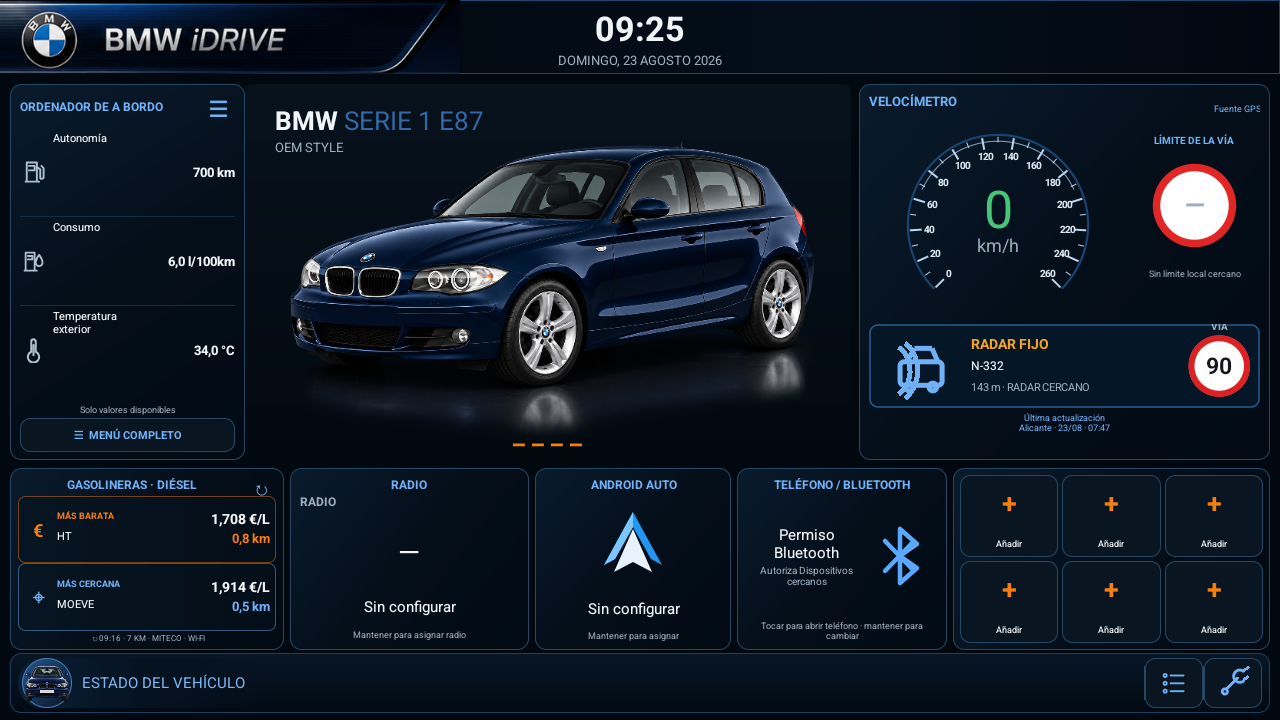
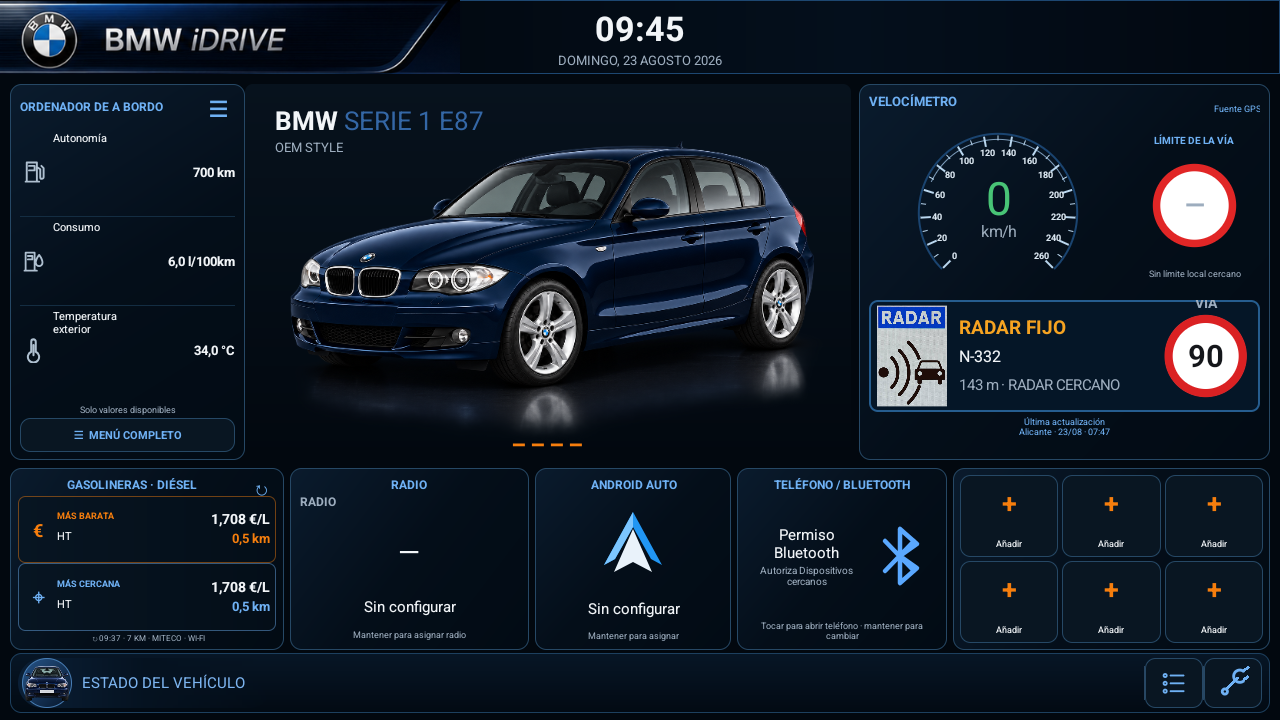
fix: use supplied Spanish radar sign

diff --git a/app/src/main/java/com/ug/e87idrive/MainActivity.java b/app/src/main/java/com/ug/e87idrive/MainActivity.java
@@ -631,11 +631,11 @@ public class MainActivity extends Activity {
         content.addView(limitColumn, lp(0, -1, .68f));
         // Keep the dial and road sign in the upper row. A radar notice needs a full-width
         // row below them; the former narrow column made its distance and approach state unreadable.
-        box.addView(content, lp(-1, dp(198)));
+        box.addView(content, lp(-1, dp(174)));
         radarNoticeView = new RadarNoticeView(this, TEXT, BLUE, MUTED);
         radarNoticeView.setContentDescription("Aviso local de radar fijo o de tramo");
         radarNoticeView.setVisibility(View.GONE);
-        box.addView(radarNoticeView, lp(-1, dp(84)));
+        box.addView(radarNoticeView, lp(-1, dp(112)));
         speedLimitUpdateInfo = txt("Base local incluida", 9, MUTED, false);
         speedLimitUpdateInfo.setGravity(Gravity.CENTER);
         speedLimitUpdateInfo.setMaxLines(2);
@@ -2662,6 +2662,7 @@ public class MainActivity extends Activity {
         private final Paint paint = new Paint(Paint.ANTI_ALIAS_FLAG);
         private final RectF rect = new RectF();
         private final int foreground, blue, muted;
+        private final Bitmap officialRadarSign;
         private RadarRepository.Alert alert;
         private Integer roadLimit;
 
@@ -2670,6 +2671,7 @@ public class MainActivity extends Activity {
             this.foreground = foreground;
             this.blue = blue;
             this.muted = muted;
+            this.officialRadarSign = BitmapFactory.decodeResource(getResources(), R.drawable.radar_sign_es);
         }
 
         void setAlert(RadarRepository.Alert alert, Integer roadLimit) {
@@ -2682,7 +2684,6 @@ public class MainActivity extends Activity {
             super.onDraw(canvas);
             if (alert == null) return;
             float w = getWidth(), h = getHeight();
-            float s = Math.min(h, w * .28f);
             rect.set(1f, 1f, w - 1f, h - 1f);
             paint.setStyle(Paint.Style.FILL);
             paint.setColor(Color.rgb(5, 22, 39));
@@ -2692,49 +2693,16 @@ public class MainActivity extends Activity {
             paint.setColor(Color.rgb(38, 93, 143));
             canvas.drawRoundRect(rect, dp(8), dp(8), paint);
 
-            // A separated radar/transmitter and front-car silhouette: do not overlap the
-            // waves with wheels or body, as it becomes illegible at the unit's 720p density.
-            float iconY = h * .55f;
-            paint.setStyle(Paint.Style.STROKE);
-            paint.setStrokeWidth(Math.max(1.5f, s * .046f));
-            paint.setStrokeCap(Paint.Cap.ROUND);
-            paint.setColor(blue);
-            float dotX = s * .13f;
-            paint.setStyle(Paint.Style.FILL);
-            canvas.drawCircle(dotX, iconY, s * .060f, paint);
-            paint.setStyle(Paint.Style.STROKE);
-            RectF wave = new RectF(s * .20f, iconY - s * .16f, s * .46f, iconY + s * .16f);
-            canvas.drawArc(wave, -66, 132, false, paint);
-            wave.inset(-s * .075f, -s * .075f);
-            canvas.drawArc(wave, -62, 124, false, paint);
-            wave.inset(-s * .075f, -s * .075f);
-            canvas.drawArc(wave, -58, 116, false, paint);
+            // Use the supplied Spanish radar road-sign image verbatim. Scaling preserves
+            // the bitmap's proportions; no custom redraw or third-party icon is involved.
+            float signHeight = Math.min(h * .90f, w * .28f / ((float) officialRadarSign.getWidth() / officialRadarSign.getHeight()));
+            float signWidth = signHeight * officialRadarSign.getWidth() / officialRadarSign.getHeight();
+            RectF signBounds = new RectF(dp(8), (h - signHeight) / 2f, dp(8) + signWidth,
+                    (h + signHeight) / 2f);
+            paint.setFilterBitmap(true);
+            canvas.drawBitmap(officialRadarSign, null, signBounds, paint);
 
-            float carLeft = s * .59f, carRight = s * 1.09f;
-            float carTop = iconY - s * .15f, carBottom = iconY + s * .22f;
-            paint.setStyle(Paint.Style.FILL);
-            paint.setColor(blue);
-            RectF car = new RectF(carLeft, carTop, carRight, carBottom);
-            canvas.drawRoundRect(car, s * .055f, s * .055f, paint);
-            Path roof = new Path();
-            roof.moveTo(carLeft + s * .10f, carTop);
-            roof.lineTo(carLeft + s * .18f, iconY - s * .32f);
-            roof.lineTo(carRight - s * .18f, iconY - s * .32f);
-            roof.lineTo(carRight - s * .10f, carTop);
-            roof.close();
-            canvas.drawPath(roof, paint);
-            paint.setStyle(Paint.Style.FILL);
-            paint.setColor(Color.rgb(5, 22, 39));
-            canvas.drawRoundRect(new RectF(carLeft + s * .14f, iconY - s * .26f,
-                    carRight - s * .14f, carTop + s * .02f), s * .025f, s * .025f, paint);
-            canvas.drawCircle(carLeft + s * .13f, carBottom, s * .073f, paint);
-            canvas.drawCircle(carRight - s * .13f, carBottom, s * .073f, paint);
-            paint.setColor(foreground);
-            canvas.drawCircle(carLeft + s * .11f, iconY + s * .035f, s * .038f, paint);
-            canvas.drawCircle(carRight - s * .11f, iconY + s * .035f, s * .038f, paint);
-            paint.setStrokeCap(Paint.Cap.BUTT);
-
-            float textLeft = s * 1.22f;
+            float textLeft = signBounds.right + dp(12);
             paint.setStyle(Paint.Style.FILL);
             paint.setTypeface(Typeface.create(Typeface.DEFAULT, Typeface.BOLD));
             paint.setTextAlign(Paint.Align.LEFT);
@@ -2752,24 +2720,24 @@ public class MainActivity extends Activity {
             canvas.drawText(formatDistance(alert.distanceMeters) + " · " + direction, textLeft, h * .80f, paint);
 
             float sign = Math.min(h * .77f, w * .24f);
-            float cx = w - sign * .63f, cy = h * .50f;
+            float cx = w - sign * .63f, signCy = h * .50f;
             paint.setStyle(Paint.Style.FILL);
             paint.setColor(Color.WHITE);
-            canvas.drawCircle(cx, cy, sign * .47f, paint);
+            canvas.drawCircle(cx, signCy, sign * .47f, paint);
             paint.setStyle(Paint.Style.STROKE);
             paint.setStrokeWidth(Math.max(2.5f, sign * .095f));
             paint.setColor(Color.rgb(218, 33, 35));
-            canvas.drawCircle(cx, cy, sign * .43f, paint);
+            canvas.drawCircle(cx, signCy, sign * .43f, paint);
             paint.setStyle(Paint.Style.FILL);
             paint.setTextAlign(Paint.Align.CENTER);
             paint.setTypeface(Typeface.create(Typeface.DEFAULT, Typeface.BOLD));
             paint.setTextSize(sign * .16f);
             paint.setColor(muted);
-            canvas.drawText("VÍA", cx, cy - sign * .56f, paint);
+            canvas.drawText("VÍA", cx, signCy - sign * .56f, paint);
             paint.setTextSize(sign * (roadLimit == null ? .36f : roadLimit >= 100 ? .31f : .36f));
             paint.setColor(roadLimit == null ? Color.rgb(80, 88, 96) : Color.rgb(20, 22, 26));
             canvas.drawText(roadLimit == null ? "—" : String.valueOf(roadLimit), cx,
-                    cy - (paint.ascent() + paint.descent()) / 2f, paint);
+                    signCy - (paint.ascent() + paint.descent()) / 2f, paint);
             paint.setTypeface(Typeface.DEFAULT);
         }
 

diff --git a/CHANGELOG.md b/CHANGELOG.md
@@ -4,9 +4,9 @@
 
 - El aviso de radar abandona la columna estrecha del límite: la esfera queda arriba y el radar
   ocupa una franja completa debajo, con vía, distancia, acercamiento y señal `VÍA` legibles.
-- El pictograma se redibuja como coche frontal separado, punto y tres ondas de radar, sin el
-  solapamiento anterior entre ruedas y señal. Se renovaron las capturas de portada, herramientas
-  y actualizaciones de GitHub; la portada identifica explícitamente sus datos como simulación.
+- El aviso utiliza directamente el pictograma de señal de radar proporcionado para el proyecto,
+  escalado sin deformar y con una franja más alta para mantener nítidos la cabecera, las ondas y
+  el coche. Se renovó la captura de portada; identifica explícitamente sus datos como simulación.
 
 - La APK incluye el inventario nacional DATEX II de la DGT de radares fijos y de velocidad media
   (tramo), de aproximadamente 2 MB antes de compresión. La consulta durante la marcha usa solo
